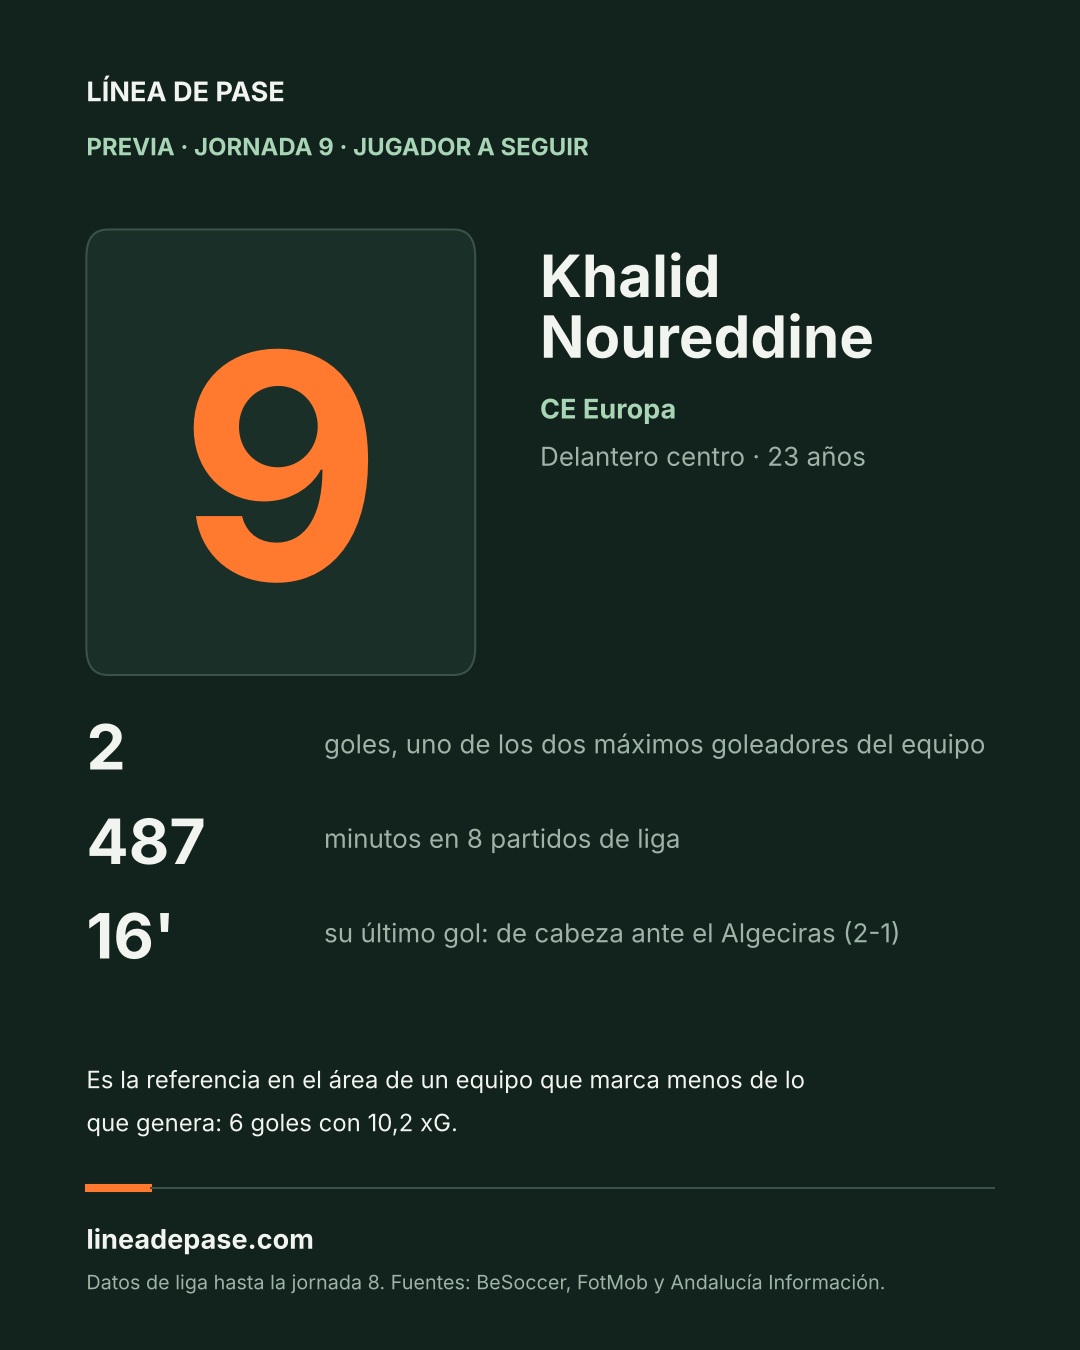
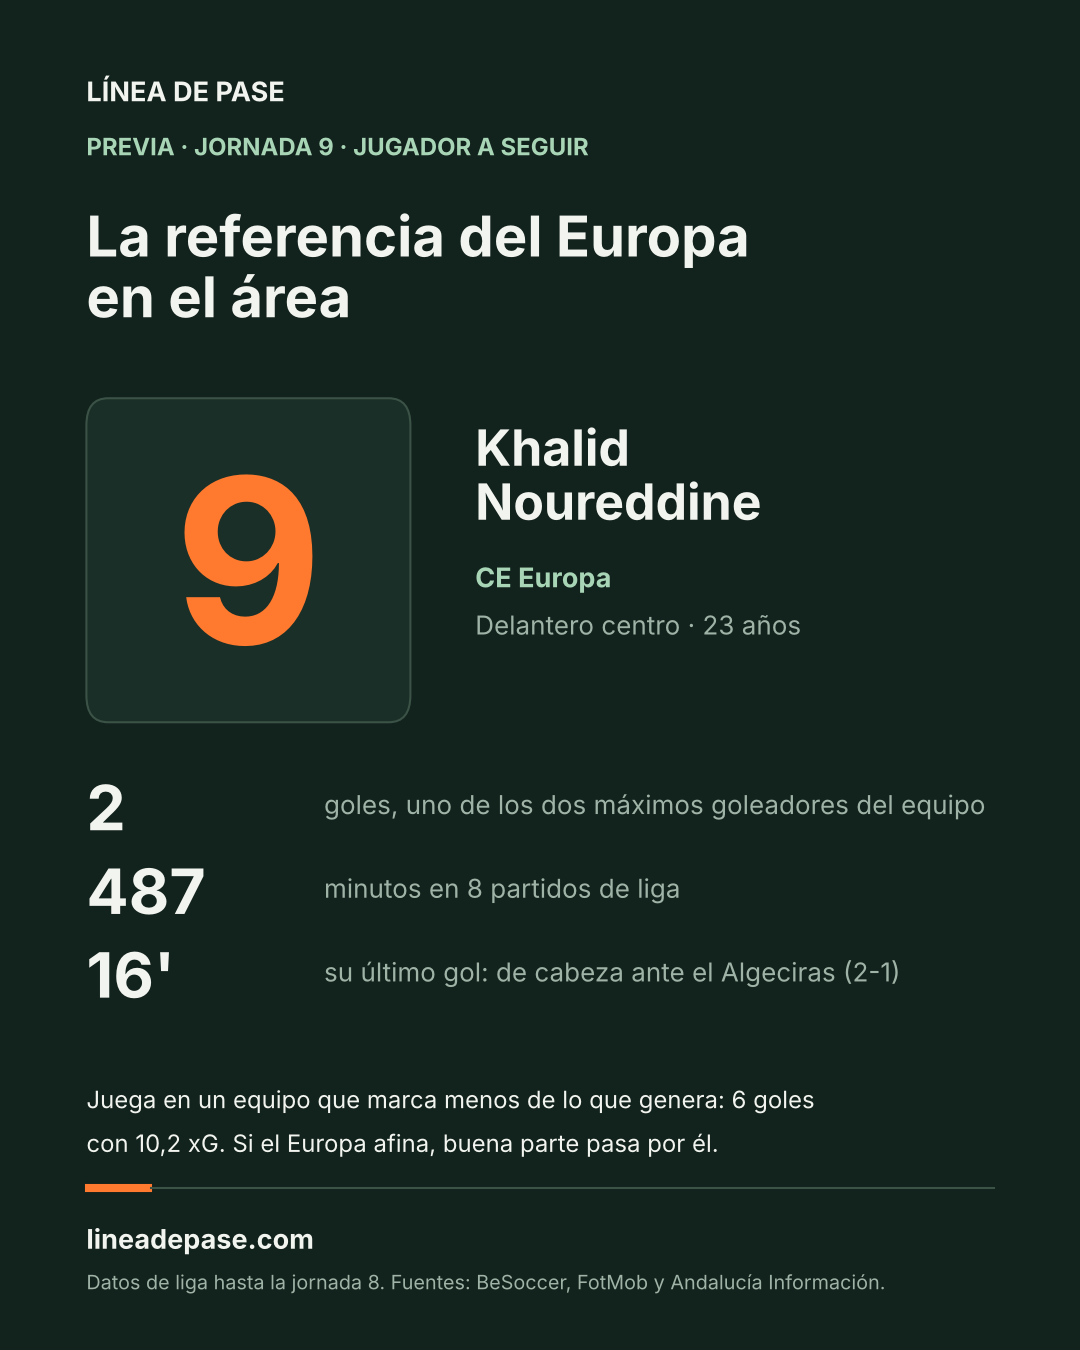
Previa J9: leyendas completas en el gráfico del rival y título del jugador a seguir

diff --git a/proyectos/real-zaragoza/previa.html b/proyectos/real-zaragoza/previa.html
@@ -93,7 +93,7 @@
 <p>El Europa suma 7 puntos en ocho jornadas y todavía no ha encadenado dos victorias: desde la jornada 4 alterna derrota y victoria (D, V, D, V, D). En casa lleva 6 de 12 puntos; fuera, 1 de 12 (2 goles a favor y 8 en contra).</p>
 <p>Su problema ha estado más en el remate que en la producción. Ha marcado 6 goles con 10,2 xG: 4,2 menos de lo esperado, la quinta mayor diferencia del grupo. Atrás ha encajado 14 con 11,8 xG en contra. En Can Dragó, por xG, ha generado más que sus rivales (5,9 frente a 4,3), aunque el marcador acumulado es de 4-6.</p>
 <p>Ha marcado en cinco jornadas seguidas, de la 3 a la 7, y se quedó a cero en la última, en Cartagena.</p>
-<figure class="figura"><img src="graficos/previa/rival_xg.png?v=j9" alt="Goles y xG del CE Europa por jornada, a favor y en contra, de la jornada 1 a la 8" loading="lazy"><figcaption>Barras: goles. Línea: xG de Sofascore. En la mayoría de sus partidos, el Europa ha marcado menos de lo que generaba.</figcaption></figure>
+<figure class="figura"><img src="graficos/previa/rival_xg.png?v=j9b" alt="Goles y xG del CE Europa por jornada, a favor y en contra, de la jornada 1 a la 8" loading="lazy"><figcaption>Barras: goles. Línea: xG de Sofascore. En la mayoría de sus partidos, el Europa ha marcado menos de lo que generaba.</figcaption></figure>
 </section>
 <section class="seccion lectura" aria-labelledby="t-europa-jugador">
 <p class="etiqueta">Jugador a seguir</p><h2 id="t-europa-jugador">Khalid Noureddine, el 9 del Europa</h2>

diff --git a/analisis/real-zaragoza/textos/previa_j9_extra.html b/analisis/real-zaragoza/textos/previa_j9_extra.html
@@ -3,7 +3,7 @@
 <p>El Europa suma 7 puntos en ocho jornadas y todavía no ha encadenado dos victorias: desde la jornada 4 alterna derrota y victoria (D, V, D, V, D). En casa lleva 6 de 12 puntos; fuera, 1 de 12 (2 goles a favor y 8 en contra).</p>
 <p>Su problema ha estado más en el remate que en la producción. Ha marcado 6 goles con 10,2 xG: 4,2 menos de lo esperado, la quinta mayor diferencia del grupo. Atrás ha encajado 14 con 11,8 xG en contra. En Can Dragó, por xG, ha generado más que sus rivales (5,9 frente a 4,3), aunque el marcador acumulado es de 4-6.</p>
 <p>Ha marcado en cinco jornadas seguidas, de la 3 a la 7, y se quedó a cero en la última, en Cartagena.</p>
-<figure class="figura"><img src="graficos/previa/rival_xg.png?v=j9" alt="Goles y xG del CE Europa por jornada, a favor y en contra, de la jornada 1 a la 8" loading="lazy"><figcaption>Barras: goles. Línea: xG de Sofascore. En la mayoría de sus partidos, el Europa ha marcado menos de lo que generaba.</figcaption></figure>
+<figure class="figura"><img src="graficos/previa/rival_xg.png?v=j9b" alt="Goles y xG del CE Europa por jornada, a favor y en contra, de la jornada 1 a la 8" loading="lazy"><figcaption>Barras: goles. Línea: xG de Sofascore. En la mayoría de sus partidos, el Europa ha marcado menos de lo que generaba.</figcaption></figure>
 </section>
 <section class="seccion lectura" aria-labelledby="t-europa-jugador">
 <p class="etiqueta">Jugador a seguir</p><h2 id="t-europa-jugador">Khalid Noureddine, el 9 del Europa</h2>

diff --git a/analisis/real-zaragoza/codigo/previa_carrusel.py b/analisis/real-zaragoza/codigo/previa_carrusel.py
@@ -88,11 +88,12 @@ def tendencia(p, rival, jornada, corte, ruta):
     etiquetas = [f"J{j}" for j in p["jornada"]]
     x = range(len(p))
     for i, (col_g, col_xg, titulo, y0) in enumerate([
-            ("goles_favor", "xg", "A favor", 0.45), ("goles_contra", "xg_rival", "En contra", 0.165)]):
-        ax = fig.add_axes([0.08, y0, 0.84, 0.19])
+            ("goles_favor", "xg", "A favor", 0.46), ("goles_contra", "xg_rival", "En contra", 0.185)]):
+        ax = fig.add_axes([0.08, y0, 0.84, 0.18])
         ax.set_facecolor(FONDO)
-        ax.bar(x, p[col_g], color=VERDE if i == 0 else "#b8452a", width=0.6, label="Goles")
-        ax.plot(x, p[col_xg], color=NARANJA, marker="o", lw=2.2, ms=6, label="xG")
+        lado = titulo.lower()
+        ax.bar(x, p[col_g], color=VERDE if i == 0 else "#b8452a", width=0.6, label=f"Goles {lado}")
+        ax.plot(x, p[col_xg], color=TEXTO, marker="o", lw=2, ms=5.5, label=f"xG {lado}")
         ax.set_xticks(list(x), etiquetas, color=SUAVE, fontsize=10)
         ax.set_ylim(0, 3.6)
         ax.set_yticks([0, 1, 2, 3])
@@ -103,9 +104,8 @@ def tendencia(p, rival, jornada, corte, ruta):
         ax.grid(axis="y", color=LINEA, lw=0.6)
         ax.set_axisbelow(True)
         ax.text(0.0, 1.1, titulo.upper(), fontsize=10.5, fontweight="bold", color=NARANJA, transform=ax.transAxes)
-        if i == 0:
-            ax.legend(loc="upper right", bbox_to_anchor=(1.0, 1.22), ncol=2, fontsize=10,
-                      labelcolor=SUAVE, frameon=False)
+        ax.legend(loc="upper right", bbox_to_anchor=(1.0, 1.22), ncol=2, fontsize=10,
+                  labelcolor=SUAVE, frameon=False)
     pie(fig, f"Goles y xG por partido, jornadas 1 a {corte}. Fuente: Sofascore.")
     fig.savefig(ruta, dpi=150, facecolor=FONDO)
     plt.close(fig)
@@ -119,14 +119,14 @@ def grafico_web(p, rival, ruta):
     etiquetas = [f"J{j}" for j in p["jornada"]]
     for ax, (col_g, col_xg, titulo, color) in zip(ejes, [
             ("goles_favor", "xg", "A favor", "#1f6b3e"), ("goles_contra", "xg_rival", "En contra", "#b8452a")]):
-        ax.bar(x, p[col_g], color=color, width=0.6, label="Goles")
-        ax.plot(x, p[col_xg], color="#ff6a2b", marker="o", lw=2, label="xG")
+        ax.bar(x, p[col_g], color=color, width=0.6, label=f"Goles {titulo.lower()}")
+        ax.plot(x, p[col_xg], color="#0f2418", marker="o", lw=2, label=f"xG {titulo.lower()}")
+        ax.legend(frameon=False, loc="upper left")
         ax.set_xticks(list(x), etiquetas)
         ax.set_title(f"{rival} · {titulo.lower()}", loc="left", fontweight="bold", color="#0f2418")
         ax.spines[["top", "right"]].set_visible(False)
         ax.grid(axis="y", color="#e3e7e0")
         ax.set_axisbelow(True)
-    ejes[0].legend(frameon=False)
     fig.tight_layout()
     fig.savefig(ruta, dpi=150, facecolor="white")
     plt.close(fig)
@@ -135,21 +135,24 @@ def grafico_web(p, rival, ruta):
 def jugador(c, jornada, ruta):
     j = c["jugador"]
     fig = lienzo(jornada, "JUGADOR A SEGUIR")
+    titular = textwrap.wrap(j.get("titulo", f"Jugador a seguir del {c['rival']}"), 24)
+    for k, linea in enumerate(titular[:2]):
+        fig.text(0.08, 0.81 - 0.045 * k, linea, fontsize=27, fontweight="bold", color=TEXTO)
     # Dorsal grande en lugar de foto (sin imágenes con derechos de terceros)
-    fig.add_artist(FancyBboxPatch((0.08, 0.50), 0.36, 0.33, transform=fig.transFigure,
+    fig.add_artist(FancyBboxPatch((0.08, 0.465), 0.30, 0.24, transform=fig.transFigure,
                                   boxstyle="round,pad=0,rounding_size=0.02", fc=PANEL, ec=LINEA))
-    fig.text(0.26, 0.655, j["dorsal"], fontsize=150, fontweight="bold", color=NARANJA,
+    fig.text(0.23, 0.585, j["dorsal"], fontsize=110, fontweight="bold", color=NARANJA,
              ha="center", va="center")
-    fig.text(0.50, 0.78, j["nombre"].split(" ")[0], fontsize=28, fontweight="bold", color=TEXTO)
-    fig.text(0.50, 0.735, " ".join(j["nombre"].split(" ")[1:]), fontsize=28, fontweight="bold", color=TEXTO)
-    fig.text(0.50, 0.69, c["rival"], fontsize=13, color=VERDE_CLARO, fontweight="bold")
-    fig.text(0.50, 0.655, f"{j['posicion']} · {j['edad']} años", fontsize=12.5, color=SUAVE)
-    y = 0.43
+    fig.text(0.44, 0.655, j["nombre"].split(" ")[0], fontsize=24, fontweight="bold", color=TEXTO)
+    fig.text(0.44, 0.615, " ".join(j["nombre"].split(" ")[1:]), fontsize=24, fontweight="bold", color=TEXTO)
+    fig.text(0.44, 0.565, c["rival"], fontsize=13, color=VERDE_CLARO, fontweight="bold")
+    fig.text(0.44, 0.53, f"{j['posicion']} · {j['edad']} años", fontsize=12.5, color=SUAVE)
+    y = 0.385
     for cifra, texto in j["datos"]:
         fig.text(0.08, y, cifra, fontsize=30, fontweight="bold", color=TEXTO)
         fig.text(0.30, y + 0.012, texto, fontsize=12.5, color=SUAVE)
-        y -= 0.07
-    fig.text(0.08, 0.215, textwrap.fill(j["lectura"], 62), fontsize=11.5, color=TEXTO, linespacing=1.5, va="top")
+        y -= 0.062
+    fig.text(0.08, 0.2, textwrap.fill(j["lectura"], 62), fontsize=11.5, color=TEXTO, linespacing=1.5, va="top")
     pie(fig, f"Datos de liga hasta la jornada {jornada - 1}. Fuentes: {j['fuentes']}.")
     fig.savefig(ruta, dpi=150, facecolor=FONDO)
     plt.close(fig)
